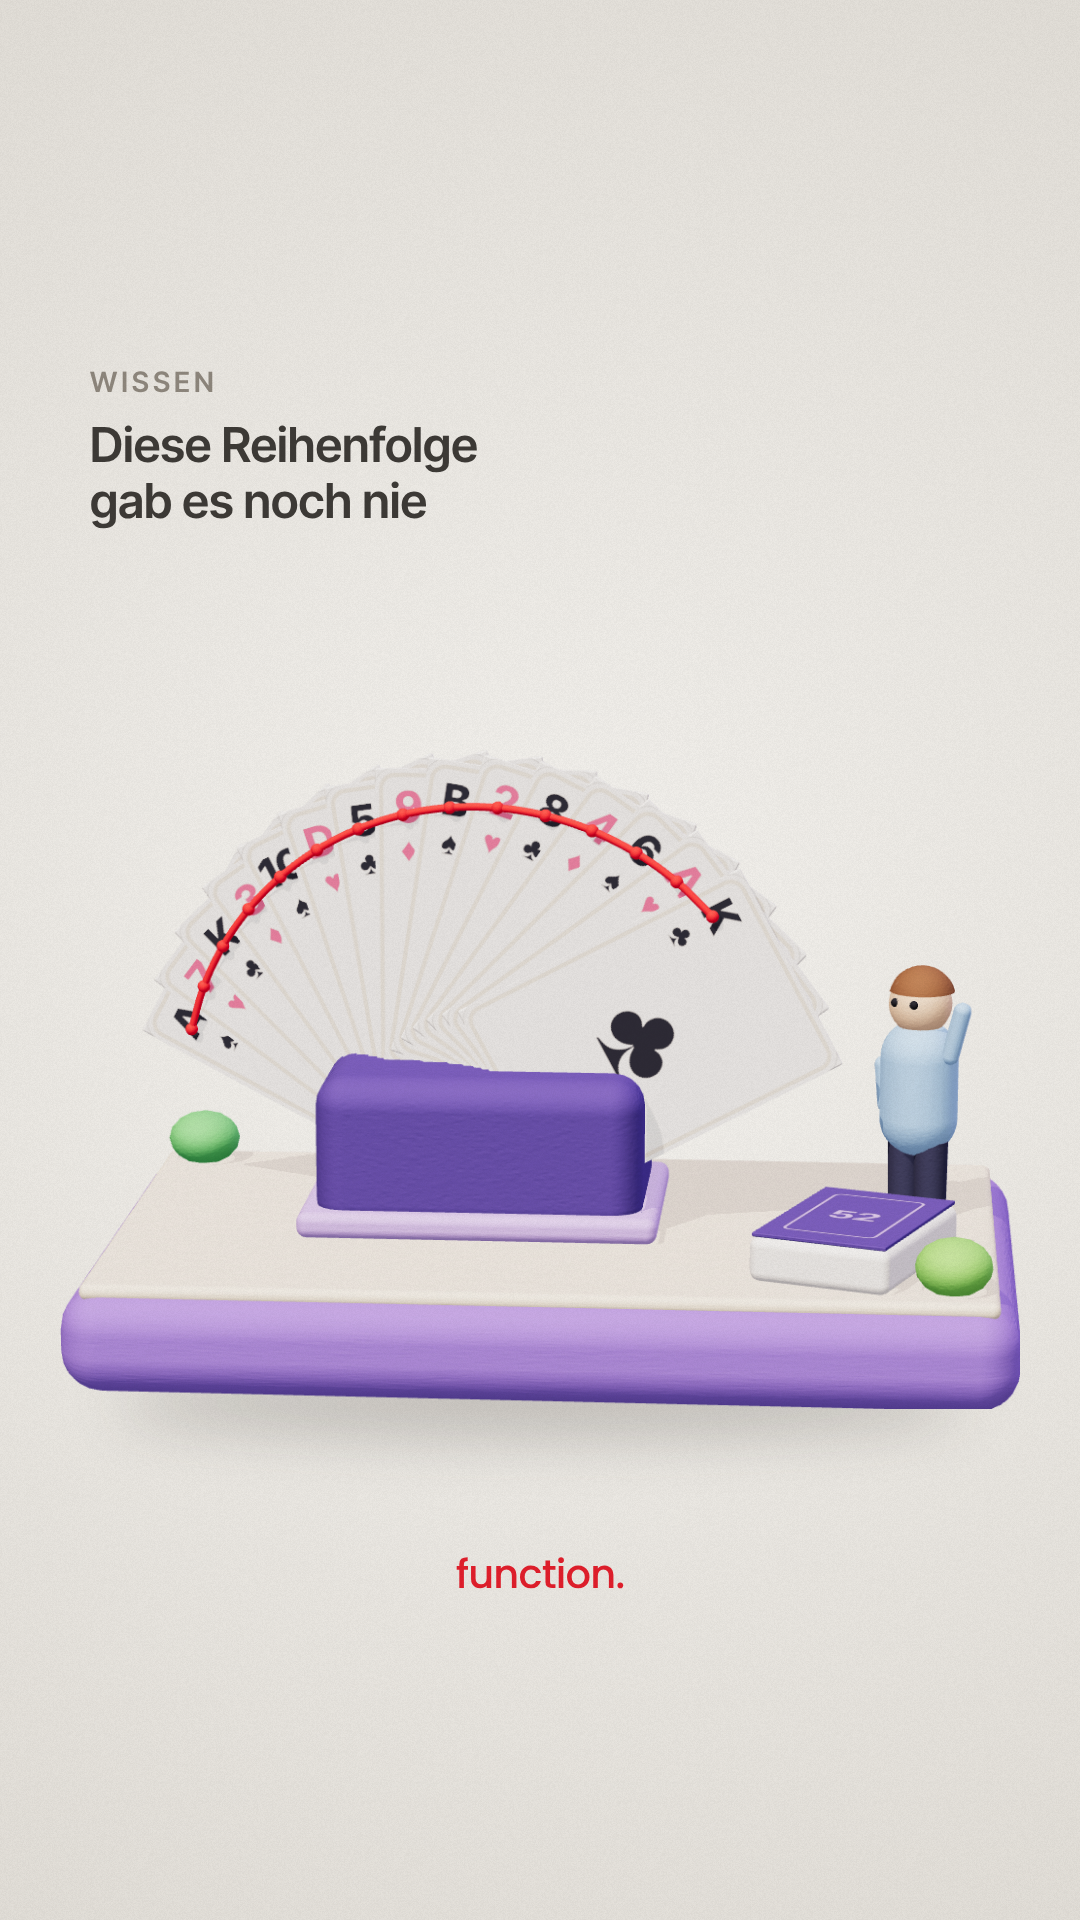
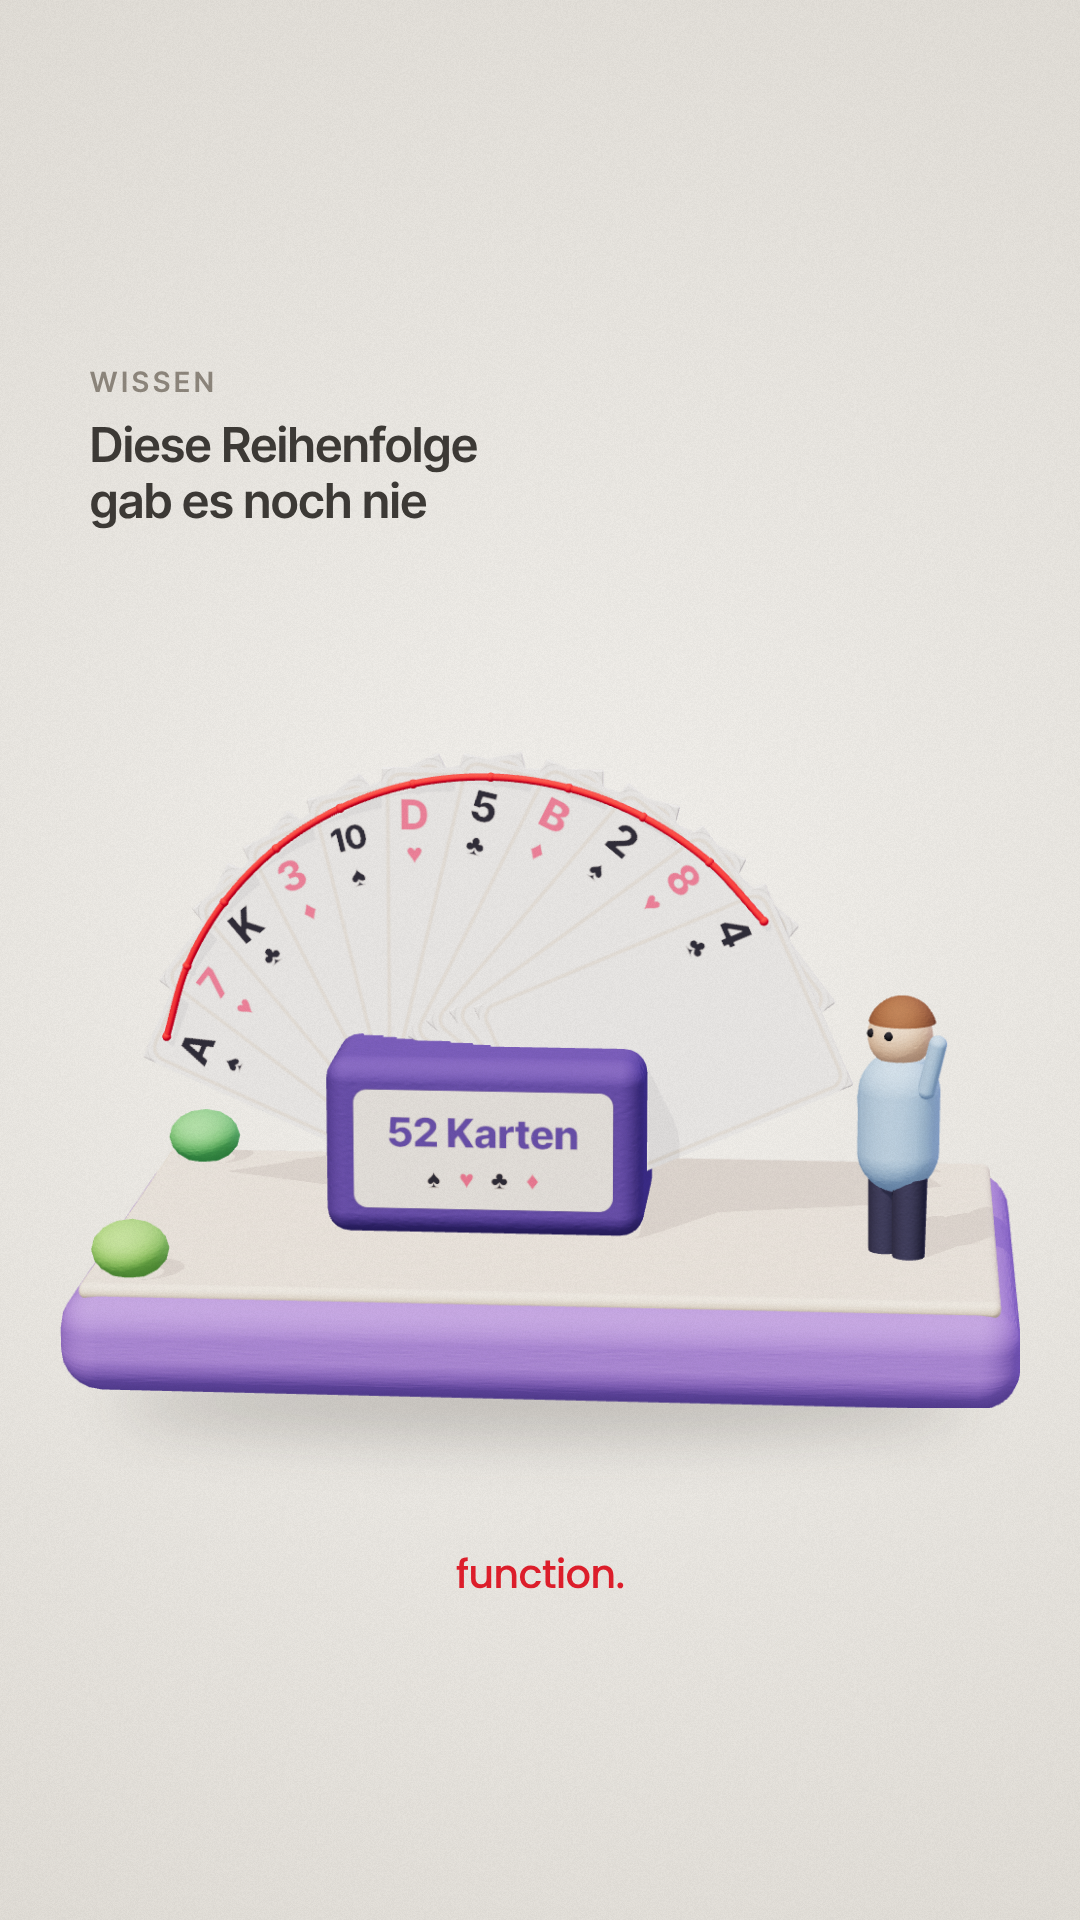
Thumbnail Kartenspiel überarbeitet: Fächer aus der Schachtel, lesbare Eckzeichen, Faden darüber, keine doppelten Karten
Claude-Session: https://claude.ai/code/session_01JQEQeouhfuAX8JpSfuj7SD

diff --git a/thumbs/knete_studio.js b/thumbs/knete_studio.js
@@ -570,25 +570,27 @@ MOTIFS.weihnachtsgeld = () => {   // verschneiter Tannenbaum mit Lichterkette, r
   VIEW = {az: -0.25, el: 0.3, fov: 24};
 };
 
-MOTIFS.karten = () => {   // Kartenspiel: aufgefächerte Karten in einem Halter, der rote Faden läuft durch alle Eckzeichen („die eine Reihenfolge“), davor ein Stapel und eine staunende Figur
-  plinth(2.7, 1.75, [[-1, -1], [1, 1]]);
-  const RK = ['A', '7', 'K', '3', '10', 'D', '5', '9', 'B', '2', '8', '4', '6', 'A', 'K'], SU = ['♠', '♥', '♣', '♦'];
-  const cardT = (r, su) => tex(420, 600, (g, w, h) => {const col = (su === '♥' || su === '♦') ? '#d9668a' : '#2b2b38'; g.fillStyle = '#fbf8f1'; g.beginPath(); g.roundRect(0, 0, w, h, 34); g.fill();
-    g.strokeStyle = '#e6dccb'; g.lineWidth = 8; g.beginPath(); g.roundRect(12, 12, w - 24, h - 24, 26); g.stroke();
-    T2(g, r, 64, 78, '800 84px "Inter Tight"', col); T2(g, su, 64, 158, '700 64px "Inter Tight"', col); T2(g, su, w / 2, h / 2 + 20, '700 230px "Inter Tight"', col);
-    g.save(); g.translate(w - 64, h - 78); g.rotate(PI); T2(g, r, 0, 0, '800 84px "Inter Tight"', col); T2(g, su, 0, -80, '700 64px "Inter Tight"', col); g.restore();});
-  const F = grp(S, -0.22, 0, -0.1), FS = 1.55, N = 15, CWd = 0.42, CHt = 0.6, PIV = 0.2, OFF = 0.36, pts = [];
-  add(F, rbox(0.62, 0.3, 0.42, 0.06), clay(PAL.deep), 0, 0.15, 0.0); add(F, rbox(0.68, 0.05, 0.48, 0.02), clay(PAL.lilac), 0, 0.025, 0.0);
-  for (let k = 0; k < N; k++) {const a = (62 - k * 124 / (N - 1)) * PI / 180, z = -0.1 + k * 0.014, C = grp(F, 0, PIV, z); C.rotation.z = a;
-    add(C, rbox(CWd, CHt, 0.01, 0.004), clay(0xfbf8f1, {bumpScale: 0.8}), 0, OFF, 0);
-    decal(C, CWd, CHt, cardT(RK[k], SU[k % 4]), 0, OFF, 0.0062, {bump: 0.12});
-    const c = new THREE.Vector3(-0.155, OFF + 0.215, 0.024).applyAxisAngle(new THREE.Vector3(0, 0, 1), a); pts.push(new THREE.Vector3(c.x * FS - 0.22, (c.y + PIV) * FS, (c.z + z) * FS - 0.1));}
+MOTIFS.karten = () => {   // Kartenspiel (überarbeitet 27.11.2026): 11 verschiedene Karten (ohne 6 und 9, die man gedreht verwechseln könnte) fächern sich aus ihrer Schachtel auf, der rote Faden läuft über allen Eckzeichen entlang („die eine Reihenfolge“), daneben eine staunende Figur
+  plinth(2.7, 1.75, [[-1, -1], [-1, 1]]);
+  const RK = ['A', '7', 'K', '3', '10', 'D', '5', 'B', '2', '8', '4'], SU = ['♠', '♥', '♣', '♦'];
+  const cardT = (r, su) => tex(420, 600, (g, w, h) => {const col = (su === '♥' || su === '♦') ? '#e0607e' : '#2b2b38', fr = r === '10' ? 64 : 80;
+    g.fillStyle = '#fffdf8'; g.beginPath(); g.roundRect(0, 0, w, h, 34); g.fill(); g.strokeStyle = '#eadfcc'; g.lineWidth = 7; g.beginPath(); g.roundRect(12, 12, w - 24, h - 24, 26); g.stroke();
+    T2(g, r, 62, 94, `800 ${fr}px "Inter Tight"`, col); T2(g, su, 62, 166, '700 56px "Inter Tight"', col);
+    g.save(); g.translate(w - 62, h - 94); g.rotate(PI); T2(g, r, 0, 0, `800 ${fr}px "Inter Tight"`, col); T2(g, su, 0, -72, '700 56px "Inter Tight"', col); g.restore();});
+  const FX = -0.2, FZ = -0.05, FS = 1.55, N = 11, CWd = 0.42, CHt = 0.6, PIV = 0.2, OFF = 0.36, pts = [], F = grp(S, FX, 0, FZ);
+  // the card box the fan comes out of: front label „52 Karten“, open lid leaning back
+  add(F, rbox(0.6, 0.34, 0.36, 0.045), clay(PAL.deep), 0, 0.17, 0);
+  add(F, rbox(0.6, 0.012, 0.17, 0.005), clay(PAL.deep), 0, 0.42, -0.24).rotation.x = -0.55;
+  decal(F, 0.5, 0.24, tex(500, 240, (g, w, h) => {g.fillStyle = '#f3ece0'; g.beginPath(); g.roundRect(6, 6, w - 12, h - 12, 26); g.fill();
+    T2(g, '52 Karten', w / 2, 92, '800 78px "Inter Tight"', '#5b4a9a'); ['♠', '♥', '♣', '♦'].forEach((c, i) => T2(g, c, w / 2 + (i - 1.5) * 62, 178, '700 50px "Inter Tight"', (c === '♥' || c === '♦') ? '#e0607e' : '#2b2b38'));}), 0, 0.17, 0.182, {bump: 0.12});
+  for (let k = 0; k < N; k++) {const a = (66 - k * 132 / (N - 1)) * PI / 180, z = -0.1 + k * 0.014, C = grp(F, 0, PIV, z); C.rotation.z = a;
+    add(C, rbox(CWd, CHt, 0.01, 0.004), clay(0xfffdf8, {bumpScale: 0.6}), 0, OFF, 0);
+    decal(C, CWd, CHt, cardT(RK[k], SU[k % 4]), 0, OFF, 0.0062, {bump: 0.1, glow: 0.12});
+    const c = new THREE.Vector3(-0.148, OFF + 0.272, 0.022).applyAxisAngle(new THREE.Vector3(0, 0, 1), a); pts.push(new THREE.Vector3(c.x * FS + FX, (c.y + PIV) * FS, (c.z + z) * FS + FZ));}
   F.scale.setScalar(FS);
-  {const m = redClay(); add(S, new THREE.TubeGeometry(new THREE.CatmullRomCurve3(pts, false, 'centripetal'), 200, 0.011, 10, false), m);
-    pts.forEach(p => add(S, new THREE.SphereGeometry(0.019, 12, 10), m, p.x, p.y, p.z));}
-  const D = grp(S, 0.88, 0, 0.42, -0.35); add(D, rbox(0.42, 0.13, 0.6, 0.03), clay(0xfbf8f1), 0, 0.065, 0); add(D, rbox(0.4, 0.012, 0.58, 0.004), clay(PAL.deep), 0, 0.136, 0);
-  decal(D, 0.3, 0.46, tex(300, 460, (g, w, h) => {g.strokeStyle = '#c4a8f0'; g.lineWidth = 10; g.beginPath(); g.roundRect(14, 14, w - 28, h - 28, 22); g.stroke(); T2(g, '52', w / 2, h / 2 + 8, '800 120px "Inter Tight"', '#c4a8f0');}), 0, 0.1435, 0, {rx: -PI / 2, bump: 0.1});
-  person(S, 1.06, -0.16, {body: PAL.sky, hair: 0x8a5a3a, ry: -0.6, s: 1.3, up: [1]});
+  {const m = redClay(); add(S, new THREE.TubeGeometry(new THREE.CatmullRomCurve3(pts, false, 'centripetal'), 200, 0.0105, 10, false), m);
+    pts.forEach(p => add(S, new THREE.SphereGeometry(0.0135, 12, 10), m, p.x, p.y, p.z));}
+  person(S, 1.0, 0.3, {body: PAL.sky, hair: 0x8a5a3a, ry: -0.75, s: 1.3, up: [1]});
   VIEW = {az: 0.08, el: 0.22, fov: 24};
 };
 
